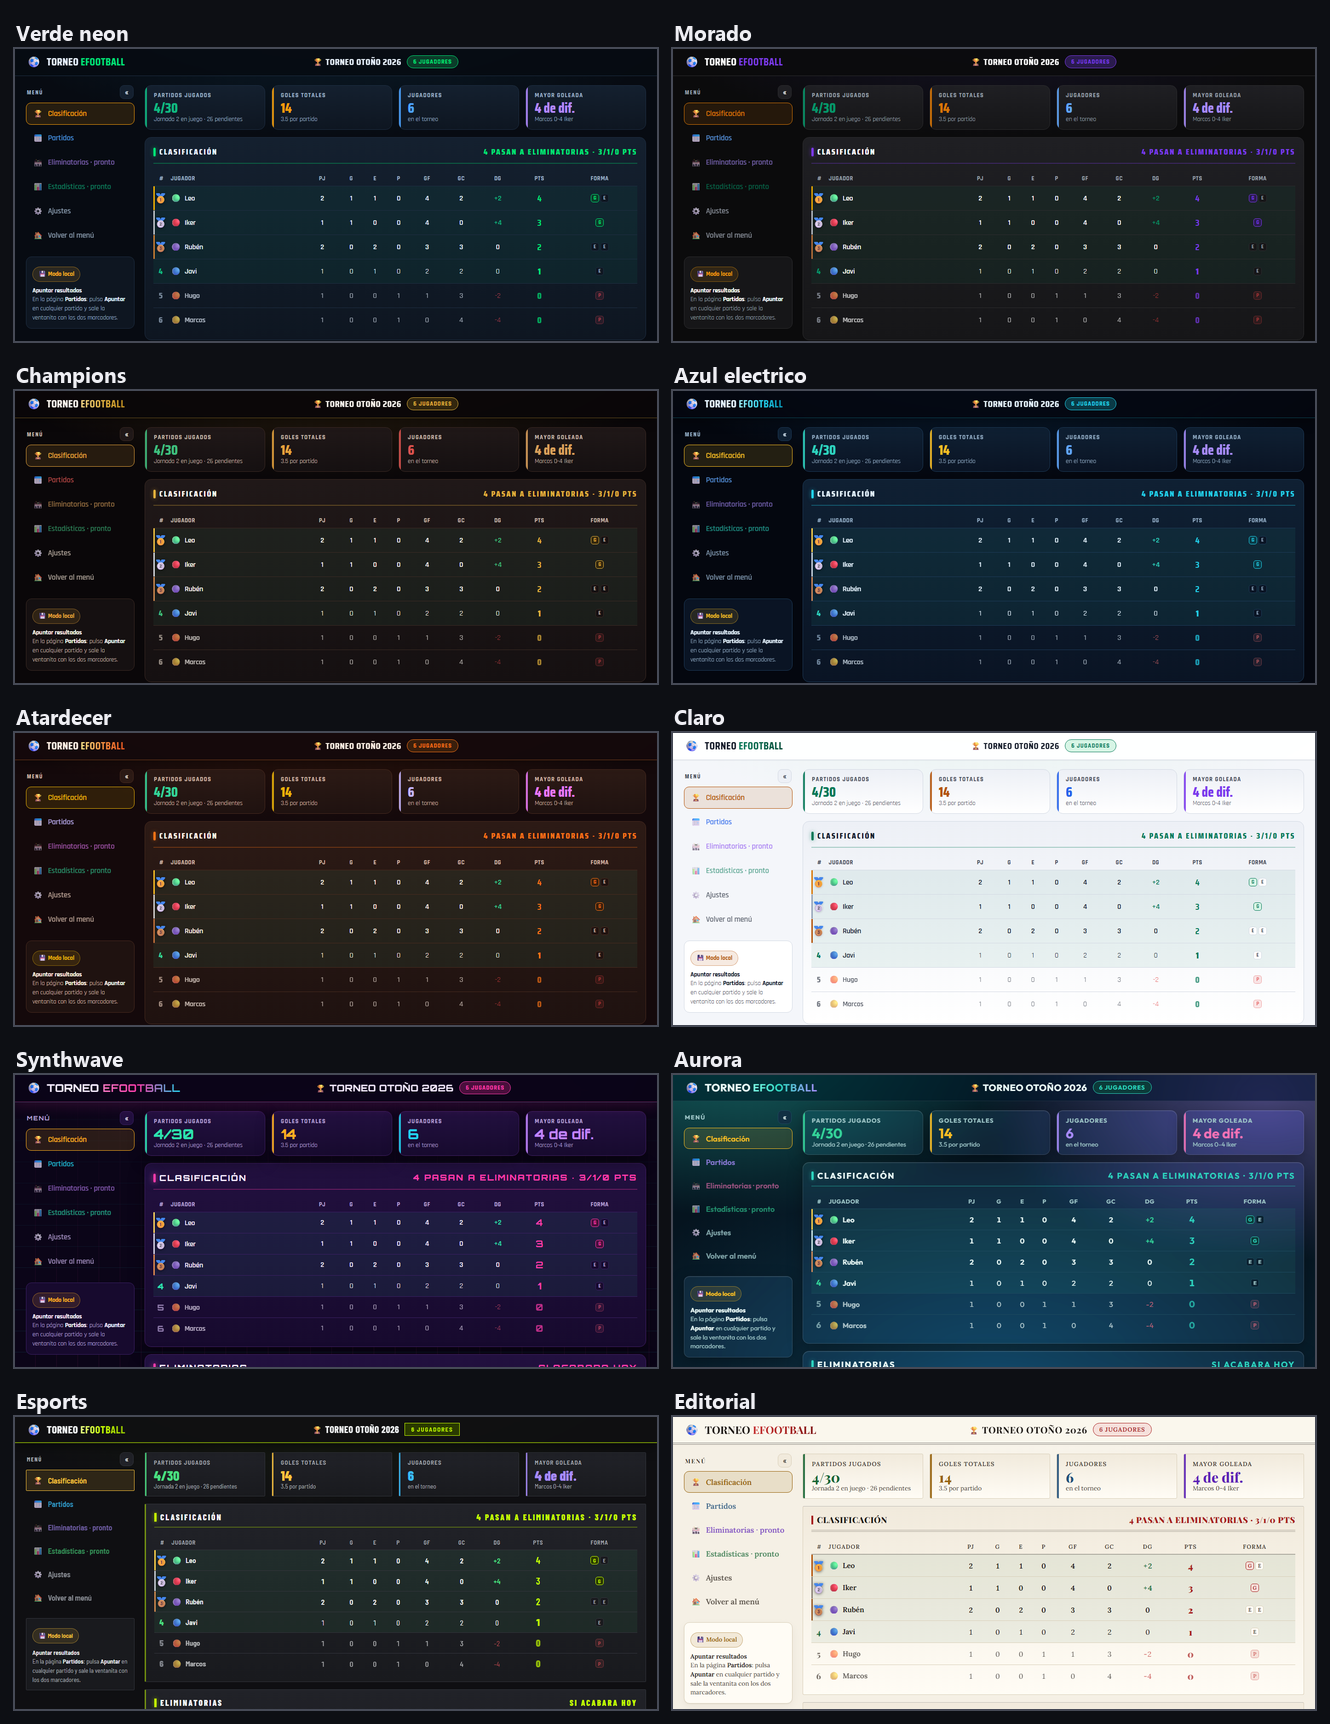
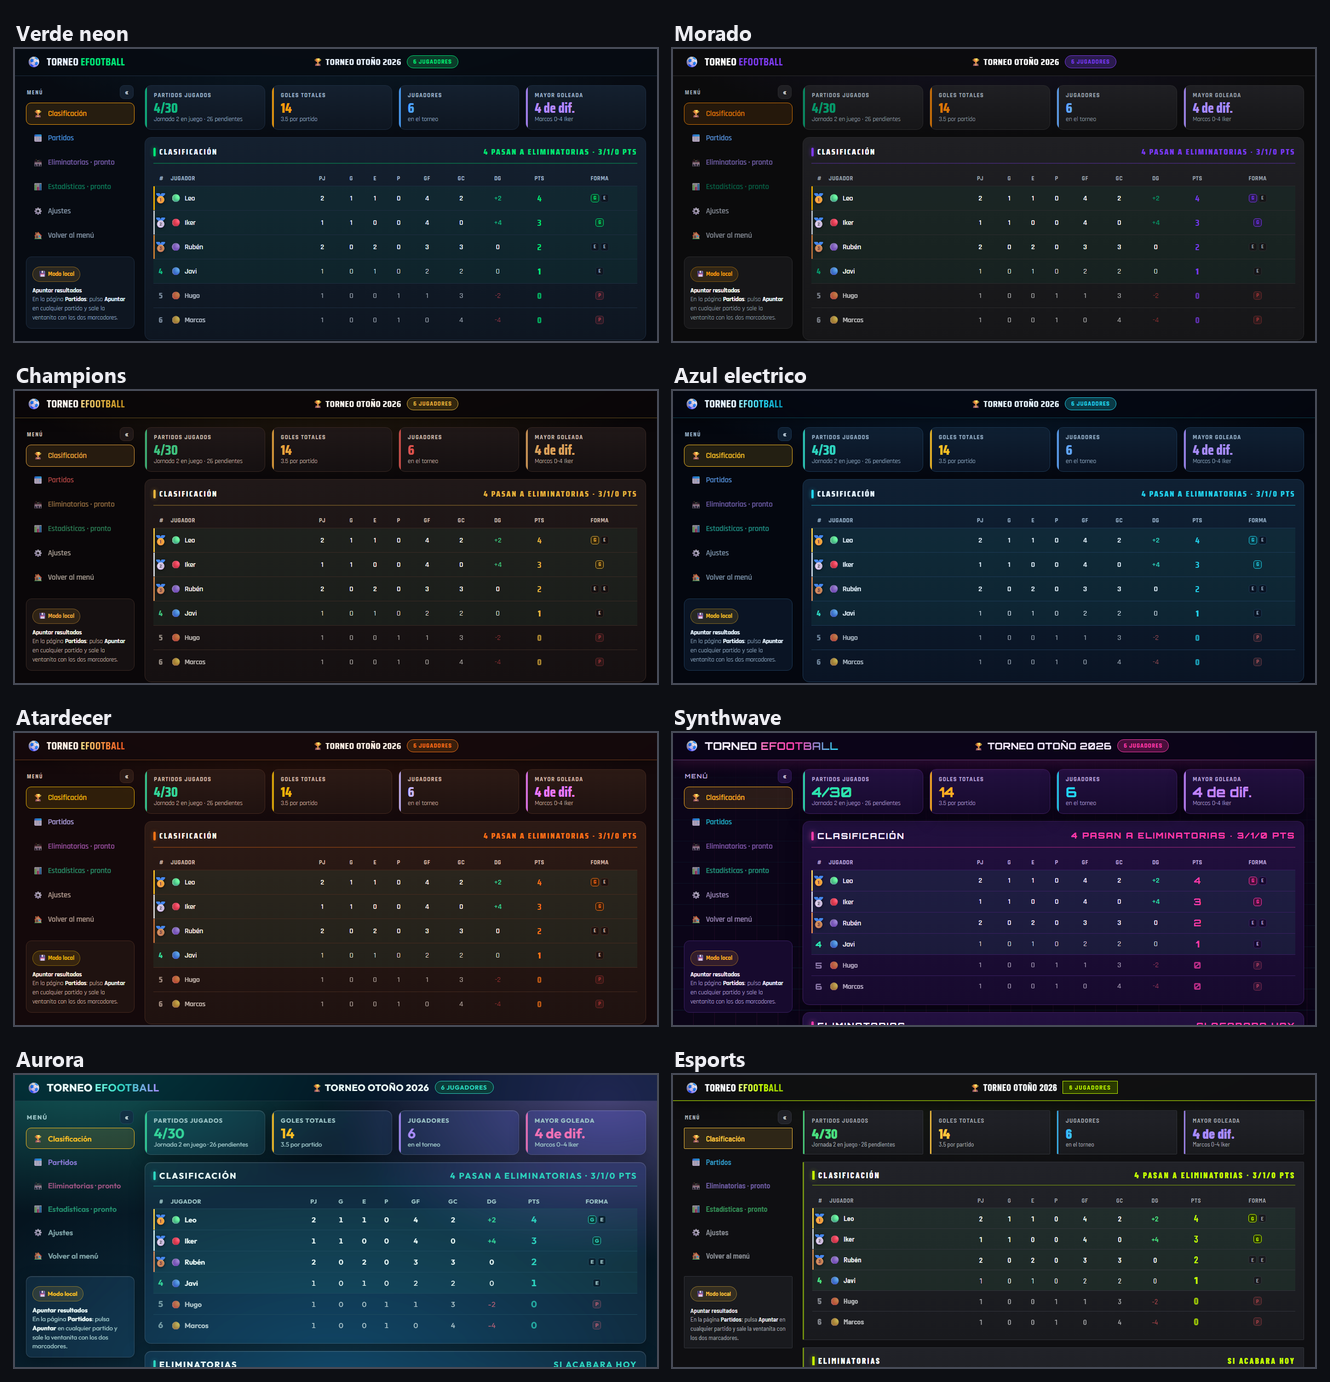
Quitar los temas Claro y Editorial (quedan 8) y dejar de cargar las fuentes que usaban

diff --git a/css/estilos.css b/css/estilos.css
@@ -5,7 +5,7 @@
    de marcador.
    ========================================================================== */
 
-@import url('https://fonts.googleapis.com/css2?family=Rajdhani:wght@400;500;600;700&family=Saira+Condensed:wght@600;700;800&family=Orbitron:wght@500;600;700;800&family=Outfit:wght@300;400;500;600;700&family=Barlow+Condensed:wght@600;700;800&family=Barlow+Semi+Condensed:wght@400;500;600&family=Playfair+Display:wght@700;800;900&family=Lora:wght@400;500;600&display=swap');
+@import url('https://fonts.googleapis.com/css2?family=Rajdhani:wght@400;500;600;700&family=Saira+Condensed:wght@600;700;800&family=Orbitron:wght@500;600;700;800&family=Outfit:wght@300;400;500;600;700&family=Barlow+Condensed:wght@600;700;800&family=Barlow+Semi+Condensed:wght@400;500;600&display=swap');
 
 :root {
   /* Colores del tema (cambiando estos valores cambia toda la web).
@@ -265,56 +265,6 @@
 }
 
 /* ==========================================================================
-   TEMA "CLARO" — fondo blanco, el único de día
-   --------------------------------------------------------------------------
-   Todo lo que en los demás es brillo, aquí es sombra suave: las tarjetas se
-   despegan con una sombra fina en vez de con un halo de color.
-   ========================================================================== */
-[data-tema="claro"] {
-  --bg:        #F4F6FA;
-  --panel:     #FFFFFF;
-  --panel-2:   #EDF0F6;
-  --linea:     #D3D9E3;
-  --neon:      #047857;   /* verde esmeralda (oscurecido para que se lea sobre blanco) */
-  --neon-suave:#D7F5E6;
-  --azul:      #2563EB;
-  --texto:     #111827;
-  --texto-2:   #3F4653;
-  --muted:     #5B6472;
-  --aviso:     #B45309;
-  --peligro:   #DC2626;
-
-  --acento-rgb:   4, 120, 87;
-  --acento-hover: #065F46;
-  --acento-texto: #047857;
-  --exito:        #047857;
-
-  --pendiente:     #B45309;   --pendiente-rgb: 180, 83, 9;
-  --jugado:        #047857;   --jugado-rgb:    4, 120, 87;
-  --en-curso:      #2563EB;   --en-curso-rgb:  37, 99, 235;
-  --lila:          #7C3AED;   --lila-rgb:      124, 58, 237;
-  --gris-rgb:      107, 114, 128;
-  --peligro-rgb:   220, 38, 38;
-  --aviso-rgb:     180, 83, 9;
-
-  --oro:    #D97706;
-  --plata:  #94A3B8;
-  --bronce: #B45309;
-
-  --brillo-fondo:   #E3F2EC;
-  --brillo-fondo-2: #E8EDFB;
-  --topbar-fondo:   rgba(255, 255, 255, .92);
-  --jornada-bg:     rgba(237, 240, 246, .8);
-  --velo:           rgba(15, 23, 42, .42);
-  --sobre-acento:   #FFFFFF;
-  --sombra-modal:   0 20px 50px rgba(15, 23, 42, .18);
-  --sombra-rueda:   inset 0 0 26px rgba(15, 23, 42, .07), 0 8px 22px rgba(15, 23, 42, .10);
-
-  /* De día no hay neón: el acento se apoya con un borde y una sombra fina */
-  --sombra-neon: 0 0 0 1px rgba(var(--acento-rgb), .25), 0 6px 16px rgba(var(--acento-rgb), .16);
-}
-
-/* ==========================================================================
    TEMA "SYNTHWAVE" — magenta y cian de neón sobre una rejilla retro
    --------------------------------------------------------------------------
    Aire de los 80: fondo violeta casi negro, magenta eléctrico como acento,
@@ -476,62 +426,6 @@
 }
 
 /* ==========================================================================
-   TEMA "EDITORIAL" — papel crema y tipografía de periódico
-   --------------------------------------------------------------------------
-   El único tema de papel: fondo crema, tinta oscura, rojo de cabecera y
-   serifas (Playfair para los títulos, Lora para el texto). Reglas finas en
-   vez de brillos de neón.
-   ========================================================================== */
-[data-tema="editorial"] {
-  --bg:        #F5F0E5;
-  --panel:     #FFFCF5;
-  --panel-2:   #F1EADC;
-  --linea:     #D9CFB9;
-  --neon:      #A61C1C;   /* rojo de cabecera */
-  --neon-suave:#F6E1DC;
-  --azul:      #1F4E79;
-  --texto:     #1A1613;
-  --texto-2:   #3E362E;
-  --muted:     #5A5148;
-  --aviso:     #96610A;
-  --peligro:   #B91C1C;
-
-  --acento-rgb:   166, 28, 28;
-  --acento-hover: #8A1616;
-  --acento-texto: #A61C1C;
-  --exito:        #166534;
-
-  --pendiente:     #96610A;   --pendiente-rgb: 150, 97, 10;
-  --jugado:        #166534;   --jugado-rgb:    22, 101, 52;
-  --en-curso:      #1F4E79;   --en-curso-rgb:  31, 78, 121;
-  --lila:          #5B21B6;   --lila-rgb:      91, 33, 182;
-  --gris-rgb:      107, 97, 86;
-  --peligro-rgb:   185, 28, 28;
-  --aviso-rgb:     150, 97, 10;
-
-  --oro:    #B45309;
-  --plata:  #8A8175;
-  --bronce: #9A5A24;
-
-  --brillo-fondo:   #FFFDF7;
-  --brillo-fondo-2: #F0E7D5;
-  --topbar-fondo:   rgba(250, 246, 237, .94);
-  --jornada-bg:     rgba(241, 234, 220, .7);
-  --velo:           rgba(40, 32, 22, .45);
-  --sobre-acento:   #FFFCF5;
-  --sombra-modal:   0 22px 55px rgba(60, 45, 25, .22);
-  --sombra-rueda:   inset 0 0 26px rgba(60,45,25,.07), 0 8px 22px rgba(60,45,25,.12);
-
-  /* En papel no hay neón: el acento se apoya con un borde fino y una sombra */
-  --sombra-neon: 0 0 0 1px rgba(var(--acento-rgb), .22), 0 4px 14px rgba(120, 90, 50, .16);
-
-  --radio: 3px;
-
-  --fuente:         'Lora', Georgia, 'Times New Roman', serif;
-  --fuente-numeros: 'Playfair Display', Georgia, serif;
-}
-
-/* ==========================================================================
    DETALLES PROPIOS DE CADA TEMA NUEVO
    --------------------------------------------------------------------------
    Un toque que los distingue más allá del color: el título con degradado y
@@ -583,32 +477,6 @@
 }
 [data-tema="atardecer"] .panel-titulo.verde b { color: var(--texto-2); }
 [data-tema="atardecer"] .tarjeta-torneo { border-top: 2px solid rgba(251, 140, 60, .5); }
-
-/* --- Claro: elevación con sombra suave en vez de brillos --- */
-[data-tema="claro"] .marca h1 span,
-[data-tema="claro"] .panel-cabecera h2 em,
-[data-tema="claro"] .panel-titulo.verde {
-  background: linear-gradient(92deg, #047857 0%, #065F46 55%, #064E3B 100%);
-  -webkit-background-clip: text; background-clip: text;
-  -webkit-text-fill-color: transparent; color: transparent;
-}
-[data-tema="claro"] .panel-titulo.verde b { color: var(--texto-2); }
-[data-tema="claro"] .topbar {
-  border-bottom: 1px solid var(--linea);
-  box-shadow: 0 1px 3px rgba(15, 23, 42, .06);
-}
-[data-tema="claro"] .tarjeta-torneo,
-[data-tema="claro"] .partido-fila,
-[data-tema="claro"] .jornada,
-[data-tema="claro"] .cara-fila,
-[data-tema="claro"] .cara-resumen,
-[data-tema="claro"] .caja-codigo,
-[data-tema="claro"] .desempate-linea,
-[data-tema="claro"] .jugador-linea {
-  box-shadow: 0 1px 2px rgba(15, 23, 42, .05), 0 6px 18px rgba(15, 23, 42, .05);
-}
-[data-tema="claro"] .tabla td.pos .medalla { filter: drop-shadow(0 1px 2px rgba(15, 23, 42, .22)); }
-[data-tema="claro"] .tabla tbody tr:hover { background: rgba(var(--acento-rgb), .06); }
 
 /* ==========================================================================
    TEMA "SYNTHWAVE" — rejilla retro en el fondo y títulos de neón
@@ -732,53 +600,6 @@
 }
 [data-tema="esports"] .tarjeta-torneo { border-top: 3px solid var(--neon); }
 [data-tema="esports"] .badge-jornada { border-radius: 0; letter-spacing: .14em; }
-
-/* ==========================================================================
-   TEMA "EDITORIAL" — papel, serifas y reglas finas
-   ========================================================================== */
-[data-tema="editorial"] body {
-  background:
-    radial-gradient(1200px 520px at 50% -10%, #FFFDF7 0%, transparent 62%),
-    var(--bg);
-  font-size: 17.5px;   /* las serifas finas se leen mejor un pelín más grandes */
-}
-[data-tema="editorial"] .marca h1 { font-family: 'Playfair Display', Georgia, serif; letter-spacing: 0; }
-[data-tema="editorial"] .marca h1 span,
-[data-tema="editorial"] .panel-cabecera h2 em,
-[data-tema="editorial"] .panel-titulo.verde {
-  background: linear-gradient(92deg, #C42B2B 0%, #A61C1C 55%, #7A1010 100%);
-  -webkit-background-clip: text; background-clip: text;
-  -webkit-text-fill-color: transparent; color: transparent;
-}
-[data-tema="editorial"] .panel-titulo.verde b { color: var(--texto-2); }
-/* Cabecera de periódico: doble filete grueso bajo la barra superior */
-[data-tema="editorial"] .topbar {
-  border-bottom: 4px double rgba(26, 22, 19, .5);
-  box-shadow: 0 1px 3px rgba(60, 45, 25, .08);
-}
-/* Los títulos de panel, con filete doble (aire de sección de periódico) */
-[data-tema="editorial"] .panel-titulo {
-  border-bottom: 4px double rgba(26, 22, 19, .34);
-  letter-spacing: .04em;
-}
-[data-tema="editorial"] .panel-titulo::before { border-radius: 0; width: 4px; box-shadow: none; }
-[data-tema="editorial"] .panel { border-top: 1px solid rgba(26, 22, 19, .28); }
-[data-tema="editorial"] .tabla th { letter-spacing: .1em; border-bottom: 2px solid rgba(26, 22, 19, .3); }
-[data-tema="editorial"] .tabla td.pts { font-weight: 900; }
-/* En papel, lo deshabilitado se lee mejor que en los temas oscuros */
-[data-tema="editorial"] .nav-item.proximo { opacity: .8; }
-[data-tema="editorial"] .nav-item { opacity: .88; }
-[data-tema="editorial"] .tarjeta-torneo,
-[data-tema="editorial"] .partido-fila,
-[data-tema="editorial"] .jornada,
-[data-tema="editorial"] .cara-fila,
-[data-tema="editorial"] .cara-resumen,
-[data-tema="editorial"] .caja-codigo,
-[data-tema="editorial"] .sidebar-pie {
-  box-shadow: 0 1px 2px rgba(60, 45, 25, .07), 0 6px 18px rgba(60, 45, 25, .05);
-}
-[data-tema="editorial"] .tarjeta-torneo { border-top: 2px solid rgba(166, 28, 28, .55); }
-[data-tema="editorial"] .tabla tbody tr:hover { background: rgba(var(--acento-rgb), .05); }
 
 * { box-sizing: border-box; }
 html, body { overflow-x: hidden; }
@@ -1420,11 +1241,9 @@ html[data-candado="fuera"] .btn-sesion {
 .tema-bola.champions { background: linear-gradient(135deg, #F7DA8A, #B98A1F); }
 .tema-bola.azul      { background: linear-gradient(135deg, #67E8F9, #0369A1); }
 .tema-bola.atardecer { background: linear-gradient(135deg, #FDBA74, #C2410C); }
-.tema-bola.claro     { background: linear-gradient(135deg, #FFFFFF, #A8B3C4); }
 .tema-bola.synthwave { background: linear-gradient(135deg, #FF3CAC, #22D3EE); }
 .tema-bola.aurora    { background: linear-gradient(135deg, #7DF9E4, #A78BFA, #F472B6); }
 .tema-bola.esports   { background: linear-gradient(135deg, #E9FF8A, #C6FF00 55%, #5E7A00); }
-.tema-bola.editorial { background: linear-gradient(135deg, #FFFCF5 0 38%, #A61C1C 38% 100%); }
 .tema-opcion .tema-info { display: flex; flex-direction: column; align-items: flex-start; gap: 1px; }
 .tema-opcion .tema-desc { font-size: 13px; font-weight: 500; color: var(--texto-2); }
 .tema-opcion .tema-check { color: var(--neon); font-weight: 800; opacity: 0; }

diff --git a/js/tema.js b/js/tema.js
@@ -6,7 +6,9 @@
    · "champions" → rojo y dorado, noche de gran final
    · "azul"      → azul eléctrico, aire de app deportiva moderna
    · "atardecer" → naranja y ámbar, luz cálida de última hora
-   · "claro"     → fondo blanco, el único de día
+   · "synthwave" → magenta y cian de neón sobre una rejilla retro
+   · "aurora"    → luces del norte y paneles de cristal
+   · "esports"   → lima ácido sobre carbón, esquinas rectas
 
    Se guarda en el navegador (cada uno puede tener la suya) y se cambia desde
    Ajustes → Aspecto de la web.
@@ -22,11 +24,9 @@ const TEMAS = {
   champions: { nombre: 'Champions',   emoji: '🏆', descripcion: 'Rojo y dorado, como una noche de gran final' },
   azul:      { nombre: 'Azul eléctrico', emoji: '🧊', descripcion: 'Cian sobre azul profundo, aire de app deportiva' },
   atardecer: { nombre: 'Atardecer',   emoji: '🌅', descripcion: 'Naranja y ámbar, luz cálida de última hora' },
-  claro:     { nombre: 'Claro',       emoji: '☀', descripcion: 'Fondo blanco y verde esmeralda, para verlo de día' },
   synthwave: { nombre: 'Synthwave',   emoji: '🌆', descripcion: 'Magenta y cian de neón sobre una rejilla retro de los 80' },
   aurora:    { nombre: 'Aurora',      emoji: '💠', descripcion: 'Luces del norte y paneles de cristal esmerilado' },
-  esports:   { nombre: 'Esports',     emoji: '⚡', descripcion: 'Lima ácido sobre carbón, esquinas rectas y aire de torneo' },
-  editorial: { nombre: 'Editorial',   emoji: '📰', descripcion: 'Papel crema y tipografía de periódico deportivo' }
+  esports:   { nombre: 'Esports',     emoji: '⚡', descripcion: 'Lima ácido sobre carbón, esquinas rectas y aire de torneo' }
 };
 
 const CLAVE_TEMA = 'tema-web';

diff --git a/docs/prueba-tema.html b/docs/prueba-tema.html
@@ -78,11 +78,9 @@ const COLORES_ESPERADOS = {
   champions: '#e3b23c',
   azul:      '#22d3ee',
   atardecer: '#f97316',
-  claro:     '#047857',
   synthwave: '#ff3cac',
   aurora:    '#2dd4bf',
-  esports:   '#c6ff00',
-  editorial: '#a61c1c'
+  esports:   '#c6ff00'
 };
 
 const NOMBRES_ESPERADOS = {
@@ -91,11 +89,9 @@ const NOMBRES_ESPERADOS = {
   champions: 'Champions',
   azul: 'Azul eléctrico',
   atardecer: 'Atardecer',
-  claro: 'Claro',
   synthwave: 'Synthwave',
   aurora: 'Aurora',
-  esports: 'Esports',
-  editorial: 'Editorial'
+  esports: 'Esports'
 };
 
 function fondoDe(d) { return d.defaultView.getComputedStyle(d.body).backgroundColor; }
